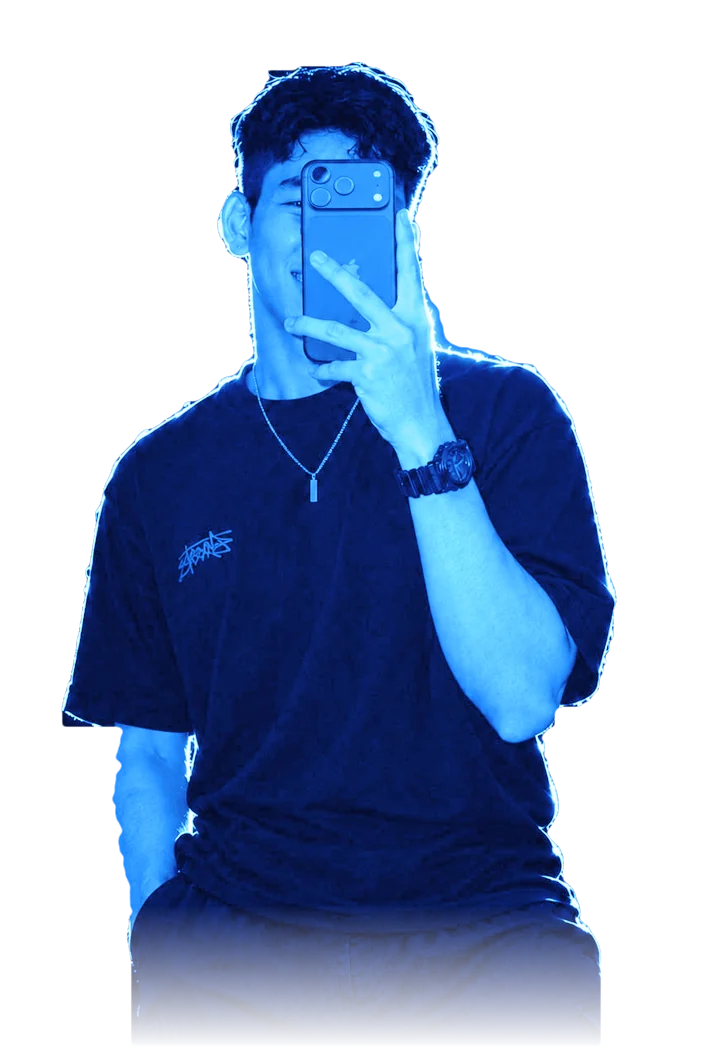
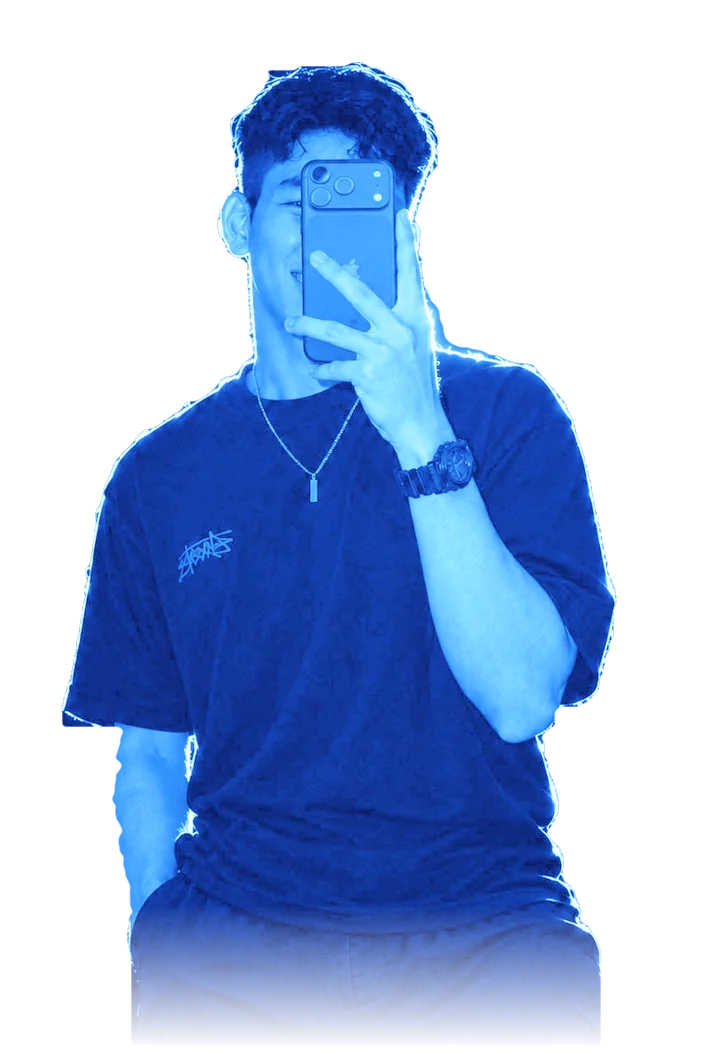
Moonlit night-sea backdrop; fix overlapping menu rows
- Replace the bright underwater look with five layered, flowing waves in dark
  navy with soft cyan crest lines, moon glints and horizon haze
- Menu rows now scale with their font size so they never overlap; hero fits
  short windows
- Lighter duotone portrait cutout so it reads on the dark sea

diff --git a/src/styles.css b/src/styles.css
@@ -73,17 +73,17 @@ ul, ol { padding: 0; list-style: none; }
 .loading { min-height: 100svh; display: grid; place-items: center; color: var(--text-muted); font: 600 1rem var(--util); letter-spacing: .2em; text-transform: uppercase; }
 
 /* ── Animated backdrop ───────────────────────────────── */
-.backdrop { --mx: 0; --my: 0; --sy: 0; position: fixed; inset: 0; z-index: -1; overflow: hidden; pointer-events: none; background: linear-gradient(180deg, #4bd6ff 0%, #0c4fe6 46%, #031047 100%); }
+.backdrop { --mx: 0; --my: 0; --sy: 0; position: fixed; inset: 0; z-index: -1; overflow: hidden; pointer-events: none; background: linear-gradient(180deg, #030c2a 0%, #05184f 55%, #020a26 100%); }
 .backdrop canvas { position: absolute; inset: 0; width: 100%; height: 100%; }
 .bd-gl { opacity: 0; transition: opacity 1.2s; }
 .bd-gl.is-live { opacity: 1; }
 .bd-layer { position: absolute; inset: 0; perspective: 1200px; }
 .bd-shard { position: absolute; display: block; clip-path: polygon(0 0, 100% 0, 62% 100%, 0 100%); will-change: transform; transform: translate3d(calc(var(--mx) * var(--dx) * 1px), calc(var(--sy) * var(--depth) * -1px + var(--my) * var(--dy) * 1px), 0) rotateY(calc(var(--mx) * 10deg)) skewX(-18deg); }
-.bd-a { left: 6%; top: 22%; width: 22vw; height: 46vh; background: linear-gradient(180deg, rgba(255, 255, 255, .22), rgba(255, 255, 255, 0)); }
-.bd-b { right: 14%; top: 6%; width: 11vw; height: 62vh; background: linear-gradient(180deg, rgba(2, 6, 15, .34), rgba(2, 6, 15, 0)); }
-.bd-c { left: 42%; top: 70%; width: 18vw; height: 52vh; background: linear-gradient(180deg, rgba(8, 36, 170, .55), rgba(8, 36, 170, 0)); }
-.bd-d { right: -3%; top: 54%; width: 26vw; height: 38vh; background: linear-gradient(180deg, rgba(255, 42, 77, .24), rgba(255, 42, 77, 0)); }
-.backdrop .veil { position: absolute; inset: 0; background: rgba(2, 6, 15, .3); opacity: var(--hero); }
+.bd-a { left: 6%; top: 22%; width: 22vw; height: 46vh; background: linear-gradient(180deg, rgba(55, 214, 255, .1), rgba(55, 214, 255, 0)); }
+.bd-b { right: 14%; top: 6%; width: 11vw; height: 62vh; background: linear-gradient(180deg, rgba(2, 6, 15, .3), rgba(2, 6, 15, 0)); }
+.bd-c { left: 42%; top: 70%; width: 18vw; height: 52vh; background: linear-gradient(180deg, rgba(15, 46, 158, .4), rgba(15, 46, 158, 0)); }
+.bd-d { right: -3%; top: 54%; width: 26vw; height: 38vh; background: linear-gradient(180deg, rgba(255, 42, 77, .13), rgba(255, 42, 77, 0)); }
+.backdrop .veil { position: absolute; inset: 0; background: rgba(2, 6, 15, .35); opacity: var(--hero); }
 
 /* ── Buttons, pills, chips ────────────────────────────── */
 .btn {
@@ -155,19 +155,19 @@ ul, ol { padding: 0; list-style: none; }
 .hero { --px: 0; --py: 0; position: relative; display: grid; align-items: center; min-height: 100svh; padding: 92px 0 60px; overflow: hidden; }
 .duo-defs { position: absolute; width: 0; height: 0; }
 .scene { position: absolute; inset: 0; pointer-events: none; }
-.scene-word { position: absolute; left: -2%; top: 14%; font: 400 clamp(7rem, 24vw, 22rem)/.8 var(--display); font-style: normal; text-transform: uppercase; white-space: nowrap; color: transparent; -webkit-text-stroke: 2px rgba(255, 255, 255, .34); transform: rotate(-7deg) translate3d(calc(var(--px) * -34px), calc(var(--hero) * -140px), 0); }
+.scene-word { position: absolute; left: -2%; top: 14%; font: 400 clamp(7rem, 24vw, 22rem)/.8 var(--display); font-style: normal; text-transform: uppercase; white-space: nowrap; color: transparent; -webkit-text-stroke: 2px rgba(120, 190, 255, .16); transform: rotate(-7deg) translate3d(calc(var(--px) * -34px), calc(var(--hero) * -140px), 0); }
 .scene-slash { position: absolute; display: block; top: -10%; height: 130%; transform: skewX(-18deg) translate3d(calc(var(--px) * 46px), 0, 0); }
 .scene-slash-a { right: 24%; width: 15vw; background: linear-gradient(180deg, rgba(2, 6, 15, .7), rgba(2, 6, 15, 0)); }
 .scene-slash-b { right: 17%; width: 1.6vw; background: linear-gradient(180deg, var(--red), rgba(255, 42, 77, 0)); opacity: .9; }
 .scene-moon { position: absolute; right: 24%; top: 10%; width: clamp(150px, 21vw, 310px); aspect-ratio: 1; transform: translate3d(calc(var(--px) * -46px), calc(var(--py) * -34px + var(--hero) * 90px), 0); }
-.scene-moon i { display: block; width: 100%; aspect-ratio: 1; border-radius: 50%; background: radial-gradient(circle at 36% 34%, #fff 0 8%, #dffaff 24%, #8fe3ff 52%, #2f86ec 80%, #0a2a9a 100%); box-shadow: 0 0 110px rgba(255, 255, 255, .45); }
+.scene-moon i { display: block; width: 100%; aspect-ratio: 1; border-radius: 50%; background: radial-gradient(circle at 30% 28%, rgba(255, 255, 255, .9) 0 3%, transparent 14%), radial-gradient(circle at 62% 58%, rgba(10, 40, 120, .35) 0 9%, transparent 10%), radial-gradient(circle at 40% 70%, rgba(10, 40, 120, .28) 0 6%, transparent 7%), radial-gradient(circle at 70% 30%, rgba(10, 40, 120, .25) 0 5%, transparent 6%), radial-gradient(circle at 36% 34%, #cfeeff 0 10%, #86c6f2 34%, #3a78d2 66%, #12308f 100%); box-shadow: 0 0 80px rgba(55, 214, 255, .22), 0 0 200px rgba(40, 110, 255, .22); opacity: .92; }
 .scene-portrait { position: absolute; right: clamp(0px, 5vw, 110px); bottom: 0; height: min(92svh, 1000px); aspect-ratio: 720 / 1053; transform: translate3d(calc(var(--px) * 26px), calc(var(--hero) * 70px + var(--py) * 12px), 0) scale(calc(1 + var(--hero) * .07)); transform-origin: 50% 100%; }
 .scene-portrait img { width: 100%; height: 100%; object-fit: contain; object-position: 50% 100%; filter: drop-shadow(0 0 2px rgba(255, 255, 255, .95)) drop-shadow(0 18px 34px rgba(2, 6, 15, .5)); }
 
 .hero-grid { position: relative; z-index: 2; display: grid; gap: clamp(1.4rem, 5vh, 3rem); align-content: center; }
 .hero-id { display: grid; justify-items: start; gap: .5rem; }
 .hero-tag { display: inline-flex; align-items: center; padding: .3rem 1rem .3rem .8rem; color: var(--dh); font: 600 .85rem var(--util); letter-spacing: .2em; text-transform: uppercase; background: #02060f; clip-path: polygon(0 0, 100% 0, calc(100% - 10px) 100%, 0 100%); }
-.hero-name { display: grid; gap: .22em .5em; justify-items: start; font: 400 clamp(2.5rem, min(6.2vw, 11vh), 6.2rem)/1 var(--display); text-transform: uppercase; }
+.hero-name { display: grid; gap: .22em .5em; justify-items: start; font: 400 clamp(2.5rem, min(6.2vw, 8.8vh), 6.2rem)/1 var(--display); text-transform: uppercase; }
 .cut-line { display: flex; flex-wrap: wrap; gap: .12em .38em; }
 .cut-word { display: inline-flex; gap: .04em; }
 .cut-word i { display: inline-block; padding: .05em .12em .01em; font-style: normal; color: #02060f; background: #fff; transform: rotate(var(--r)); box-shadow: .06em .06em 0 var(--royal); }
@@ -177,10 +177,10 @@ ul, ol { padding: 0; list-style: none; }
 .role-word { display: inline-block; color: var(--ice); animation: role-in .5s var(--ease); }
 @keyframes role-in { from { opacity: 0; transform: translateY(10px); } }
 
-.hero-menu { --row: clamp(36px, 5.2vh, 60px); position: relative; width: max-content; max-width: 100%; transform: perspective(1000px) rotateY(9deg) rotate(-5deg) skewX(-8deg) translate3d(calc(var(--px) * -18px), calc(var(--py) * -10px), 0); transform-origin: left center; }
+.hero-menu { --fs: clamp(1.3rem, min(3.3vw, 4.3vh), 2.7rem); --row: calc(var(--fs) * 1.32); position: relative; width: max-content; max-width: 100%; transform: perspective(1000px) rotateY(9deg) rotate(-5deg) skewX(-8deg) translate3d(calc(var(--px) * -18px), calc(var(--py) * -10px), 0); transform-origin: left center; }
 .hero-menu ul { position: relative; z-index: 1; display: grid; }
 .hero-menu li { height: var(--row); }
-.hero-menu button { position: relative; display: flex; align-items: center; width: 100%; height: 100%; padding: 0 3rem 0 1.2rem; background: none; border: 0; font: 400 clamp(1.5rem, 3.3vw, 2.7rem)/1 var(--display); letter-spacing: .05em; text-transform: uppercase; text-align: left; color: #fff; -webkit-text-stroke: 7px #02060f; paint-order: stroke fill; text-shadow: 4px 4px 0 #02060f; transition: color .2s, transform .35s var(--ease), text-shadow .2s; }
+.hero-menu button { position: relative; display: flex; align-items: center; width: 100%; height: 100%; padding: 0 3rem 0 1.2rem; background: none; border: 0; font: 400 var(--fs)/1 var(--display); letter-spacing: .05em; text-transform: uppercase; text-align: left; color: #fff; -webkit-text-stroke: 7px #02060f; paint-order: stroke fill; text-shadow: 4px 4px 0 #02060f; transition: color .2s, transform .35s var(--ease), text-shadow .2s; }
 .hero-menu button.is-active { color: var(--red); text-shadow: none; -webkit-text-stroke-width: 0; transform: translateX(22px) scale(1.05); transform-origin: left center; }
 .hero-menu .slash { filter: drop-shadow(0 7px 0 #02060f); position: absolute; z-index: 0; left: -.5rem; right: -1.6rem; top: 0; height: var(--row); transform: translateY(calc(var(--i) * var(--row))); transition: transform .4s var(--ease); pointer-events: none; }
 .hero-menu .slash::before, .hero-menu .slash b { content: ""; position: absolute; inset: 0; clip-path: polygon(0 18%, 100% 0, 97% 100%, 3% 84%); }
@@ -205,7 +205,7 @@ ul, ol { padding: 0; list-style: none; }
 .section { position: relative; padding: clamp(4.5rem, 10vw, 8rem) 0 clamp(1rem, 3vw, 2rem); }
 .section .container { padding-right: max(var(--gutter), calc(190px - (100vw - var(--container)) / 2)); }
 .sec-head { position: relative; display: grid; justify-items: start; gap: .8rem; margin-bottom: clamp(1.8rem, 4vw, 3rem); }
-.bg-word { position: absolute; left: -.04em; top: -.55em; z-index: -1; font: 400 clamp(5rem, 17vw, 13rem)/1 var(--display); color: transparent; -webkit-text-stroke: 1px rgba(255, 255, 255, .3); text-transform: uppercase; pointer-events: none; transform: translate3d(calc((1 - var(--enter, 1)) * -90px), 0, 0); user-select: none; white-space: nowrap; }
+.bg-word { position: absolute; left: -.04em; top: -.55em; z-index: -1; font: 400 clamp(5rem, 17vw, 13rem)/1 var(--display); color: transparent; -webkit-text-stroke: 1px rgba(120, 190, 255, .18); text-transform: uppercase; pointer-events: none; transform: translate3d(calc((1 - var(--enter, 1)) * -90px), 0, 0); user-select: none; white-space: nowrap; }
 .sec-top { display: flex; flex-wrap: wrap; align-items: center; justify-content: space-between; gap: .6rem 1.5rem; width: 100%; }
 .back-menu { display: inline-flex; align-items: center; gap: .65rem; min-height: 44px; padding: .3rem 1.1rem .3rem .9rem; font: 700 .85rem var(--util); letter-spacing: .18em; text-transform: uppercase; color: #fff; background: rgba(2, 6, 15, .92); border: 2px solid #fff; border-right: 6px solid var(--red); transform: skewX(-10deg); transition: transform .3s var(--ease), background .2s; }
 .back-menu > * { transform: skewX(10deg); }
@@ -592,8 +592,7 @@ html[data-dark-hour] .contact-info h2 em, html[data-dark-hour] .contact-panel .s
   .proj-row.is-active { transform: none; }
   .hero { padding-top: 84px; align-items: end; }
   .hero-grid { gap: 1rem; }
-  .hero-menu { --row: clamp(42px, 6.4vh, 56px); transform: rotate(-4deg) skewX(-7deg); }
-  .hero-menu button { font-size: clamp(1.5rem, 7.6vw, 2.3rem); }
+  .hero-menu { --fs: clamp(1.45rem, min(7.4vw, 4.6vh), 2.2rem); transform: rotate(-4deg) skewX(-7deg); }
   .hero-hint { display: none; }
   .scene-word { top: 22%; }
   .scene-slash-a { right: 6%; width: 28vw; }
@@ -602,7 +601,6 @@ html[data-dark-hour] .contact-info h2 em, html[data-dark-hour] .contact-panel .s
   .scene-portrait { right: -18%; height: 66svh; opacity: .9; }
 }
 @media (max-width: 560px) {
-  .hero-menu { --row: clamp(38px, 5.6vh, 50px); }
 }
 @media (hover: none) { .proj-row.is-active { transform: none; } }
 @media (prefers-reduced-motion: reduce) {

diff --git a/src/components/Backdrop.jsx b/src/components/Backdrop.jsx
@@ -2,8 +2,8 @@ import { useEffect, useRef } from "react";
 import { prefersReducedMotion } from "../lib/utils";
 
 // The living background, three layers deep:
-//   1. a WebGL shader at reduced resolution: an underwater scene with a bright azure surface,
-//      rippling caustics and swaying light shafts that sinks to deep navy as you scroll down;
+//   1. a WebGL shader at reduced resolution: a moonlit night sea of five layered, flowing waves
+//      with cyan crest lines, moon glints and a soft horizon haze that darkens as you scroll;
 //   2. a 2D canvas of rising bubbles and light motes in three depth layers (scroll and pointer parallax);
 //   3. skewed glass shards that shift with scroll and pointer for a subtle 3D parallax.
 // Everything stops when the tab is hidden, drops to a lighter setup on touch devices, and falls
@@ -16,34 +16,42 @@ precision highp float;
 precision mediump float;
 #endif
 uniform vec2 r; uniform float t; uniform float dh; uniform float d; uniform vec2 m;
+float waveY(float x, float base, float amp, float freq, float spd, float ph) {
+  return base + amp * sin(x * freq + t * spd + ph) + amp * .55 * sin(x * freq * 2.3 - t * spd * .7 + ph * 1.7) + amp * .25 * sin(x * freq * 4.1 + t * spd * 1.3 + ph * .4);
+}
 void main(){
   vec2 uv = gl_FragCoord.xy / r;
   float asp = r.x / r.y;
-  vec2 p = vec2(uv.x * asp, uv.y) * 4.5 + m * .5;
-  vec2 i = p; float c = 1.0; float inten = .0065;
-  for (int n = 0; n < 4; n++) {
-    float tt = t * .26 * (1.0 - 3.2 / float(n + 1));
-    i = p + vec2(cos(tt - i.x) + sin(tt + i.y), sin(tt - i.y) + cos(tt + i.x));
-    c += 1.0 / length(vec2(p.x / (sin(i.x + tt) / inten), p.y / (cos(i.y + tt) / inten)));
+  float x = uv.x * asp;
+  vec3 sky = mix(vec3(.008, .02, .07), vec3(.02, .08, .26), smoothstep(.15, 1.0, uv.y));
+  vec2 mp = vec2(asp * .70, .74 + sin(t * .15) * .01);
+  float md = length(vec2(x, uv.y) - mp);
+  sky += vec3(.12, .5, 1.0) * .13 / (1.0 + 16.0 * md * md);
+  vec3 col = sky;
+  float refl = exp(-pow((x - mp.x) * 2.6, 2.0));
+  for (int i = 0; i < 5; i++) {
+    float fi = float(i);
+    float k = fi / 4.0;
+    float base = .56 - fi * .115 + m.y * .012 * (fi + 1.0);
+    float amp = .010 + k * .022;
+    float yy = waveY(x + m.x * .06 * (fi + 1.0), base, amp, 2.6 + fi * 1.3, .30 + fi * .11, fi * 2.1);
+    float above = uv.y - yy;
+    float fill = smoothstep(.0025, -.0025, above);
+    vec3 lc = mix(vec3(.03, .16, .5), vec3(.012, .05, .22), k);
+    lc *= .55 + .45 * smoothstep(-.28, 0.0, above);
+    float ripple = pow(.5 + .5 * sin(above * 110.0 + x * 7.0 + t * (.6 + fi * .2)), 3.0) * .045;
+    float glint = refl * pow(.5 + .5 * sin(x * 95.0 + sin(above * 38.0 + t * .9 + fi) * 3.2 - t * 1.6), 9.0) * (1.0 - k * .5) * smoothstep(-.2, 0.0, above);
+    vec3 layer = lc + vec3(.2, .6, 1.0) * ripple * (1.0 - k * .4) + vec3(.55, .9, 1.0) * glint * .34;
+    layer += vec3(.25, .75, 1.0) * smoothstep(.014, 0.0, abs(above)) * (.5 - k * .25);
+    col = mix(col, layer, fill);
   }
-  c /= 4.0; c = 1.17 - pow(c, 1.35);
-  float w = clamp(pow(abs(c), 9.0), 0.0, 1.0);
-  float y = uv.y;
-  vec3 topC = mix(vec3(.10, .70, 1.0), vec3(.04, .34, .95), d);
-  vec3 midC = mix(vec3(.02, .28, .98), vec3(.01, .12, .6), d);
-  vec3 botC = mix(vec3(.01, .07, .56), vec3(.005, .03, .2), d);
-  vec3 base = mix(mix(botC, midC, smoothstep(0.0, .55, y)), topC, smoothstep(.42, 1.0, y));
-  float s = sin((uv.x * asp * 1.1 + (1.0 - y) * .9) * 7.0 + sin(t * .18 + uv.x * 3.0) * 1.2 + t * .14);
-  float rays = pow(max(s, 0.0), 6.0) * smoothstep(.1, 1.0, y) * .3 * (1.0 - d * .7);
-  float surf = smoothstep(.84, 1.0, y) * (.5 + .5 * sin(uv.x * asp * 26.0 + sin(y * 30.0 + t * 1.2) * 2.0 - t * 1.4)) * .22;
-  vec3 col = base + vec3(.6, .9, 1.0) * w * (.18 + .3 * y) * (1.0 - .5 * d) + vec3(.6, .9, 1.0) * (rays * .55 + surf * .6);
-  col += (fract(sin(dot(gl_FragCoord.xy + t, vec2(12.9898, 78.233))) * 43758.5453) - .5) * .02;
-  vec3 dhBase = mix(mix(vec3(.0, .05, .04), vec3(.02, .22, .15), smoothstep(0.0, .6, y)), vec3(.05, .42, .3), smoothstep(.5, 1.0, y));
-  vec3 dhCol = dhBase + vec3(.4, 1.0, .7) * w * (.2 + .4 * y) + vec3(.4, 1.0, .7) * (rays + surf) * .8;
-  col = mix(col, dhCol, dh);
-  col = 1.0 - exp(-col * 1.25);
-  float vig = smoothstep(1.4, .3, length(uv - .5));
-  gl_FragColor = vec4(col * (.78 + .22 * vig), 1.0);
+  col += vec3(.1, .35, .8) * exp(-pow((uv.y - .60) * 6.0, 2.0)) * .09;
+  col *= mix(1.0, .55, d);
+  float lum = dot(col, vec3(.3, .59, .11));
+  col = mix(col, vec3(lum * .35, lum * 1.35, lum * .85) + vec3(.0, .012, .01), dh);
+  col += (fract(sin(dot(gl_FragCoord.xy + t, vec2(12.9898, 78.233))) * 43758.5453) - .5) * .018;
+  col *= .8 + .2 * smoothstep(1.4, .3, length(uv - .5));
+  gl_FragColor = vec4(col, 1.0);
 }`;
 
 const SHARDS = [
